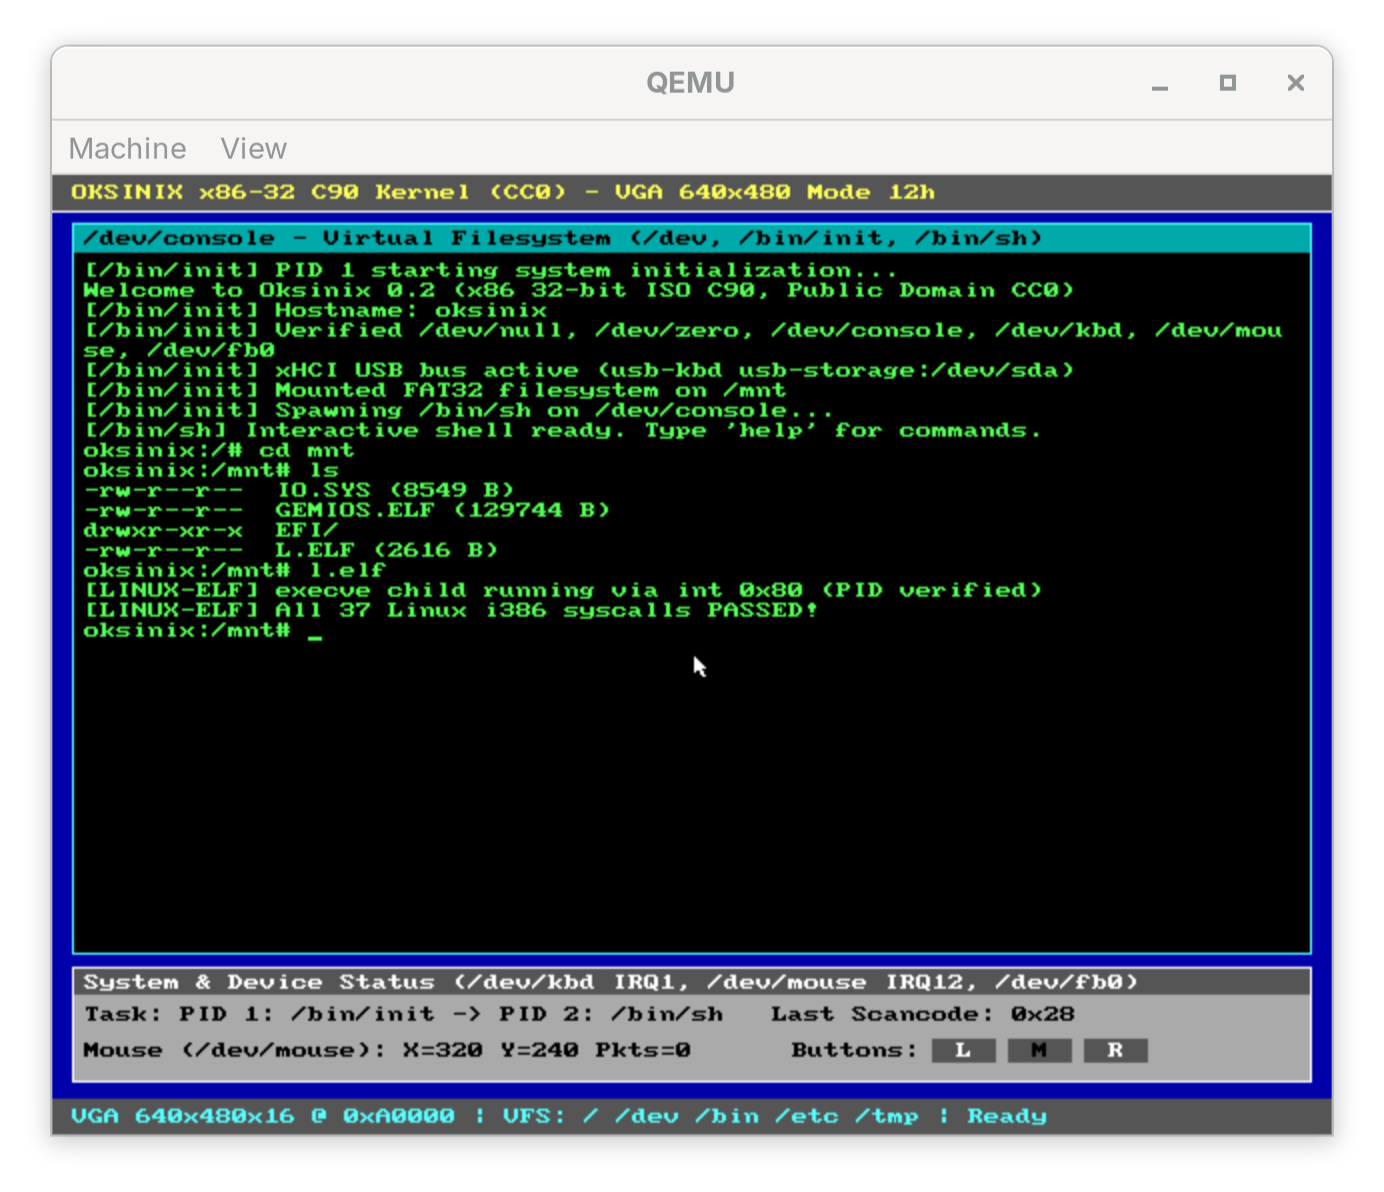
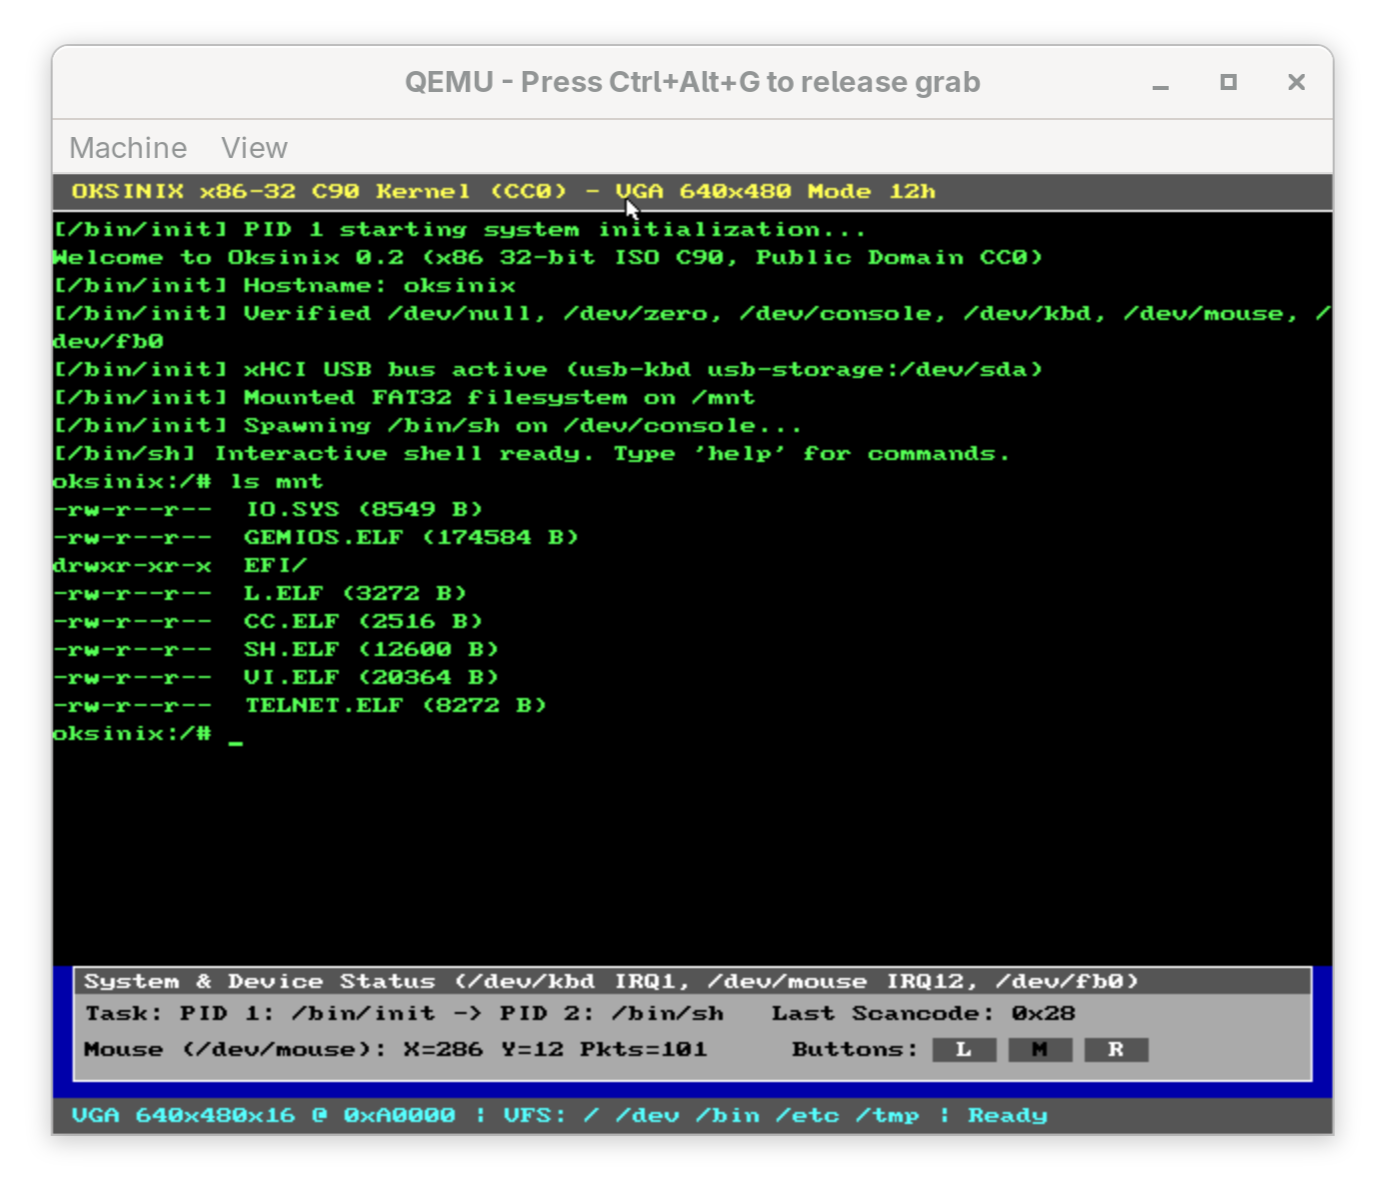
Oksinix

Changed region(s): [[0.0311, 0.0931, 0.9632, 0.9622], [0.2796, 0.031, 0.7146, 0.0931]]

diff --git a/oksinix/README.md b/oksinix/README.md
@@ -1,22 +1,24 @@
 <!-- SPDX-License-Identifier: CC0-1.0 -->
 # Oksinix
 
-A 32-bit x86 operating system kernel written in strict ISO C90 (`-std=c89 -pedantic -Wall -Wextra -Werror`), compiled with `clang` and linked with `ld.lld`. Dedicated to the public domain under **CC0 1.0 Universal**.
+A 32-bit x86 operating system kernel and Ring-3 userland written in strict ISO C90 (`-std=c89 -pedantic -Wall -Wextra -Werror`), compiled with `clang` and linked with `ld.lld`. Dedicated to the public domain under **CC0 1.0 Universal**.
 
 ## Features
 
-- **BIOS MBR Hybrid Boot Image (`oksinix.img`, `boot/mbr.S`) & Multiboot v1 ELF (`oksinix.elf`, `boot/boot.S`)**:
+- **BIOS MBR Hybrid Boot Image (`oksinix.img`, `boot/mbr.S`), Multiboot v1 ELF (`oksinix.elf`, `boot/boot.S`) & UEFI 32/64-bit Support**:
   - **Custom 512-byte BIOS MBR Bootloader (`boot/mbr.S`)**: Reserves bytes `0x03..0x59` (`.org 0x5A`) for USB-FDD BPB safety, collects the BIOS ACPI E820 memory map (`INT 15h`), enables A20, loads `oksinix.bin` in 16-sector LBA chunks, initializes VESA VBE 2.0 Linear Framebuffer (with VGA Mode 12h fallback), and enters 32-bit protected mode at `_start`
-  - **Multiboot v1 ELF (`oksinix.elf`)**: Direct boot via QEMU `-kernel` or Multiboot bootloaders with memory map and command-line parsing
-- **x86 32-bit Protected Mode Core, ACPI & Hardware Timer (`arch/x86/`, `drivers/acpi.c`, `drivers/pit.c`)**:
-  - Flat 32-bit GDT (`gdt.c`), 256-entry IDT (`idt.c`, `isr.S`), 8259 PIC (`pic.c`) with spurious IRQ7/IRQ15 filtering, and 1000 Hz 8254 PIT (`pit.c`) with hardware-latched `pit_udelay`/`pit_mdelay`
+  - **Multiboot v1 ELF (`oksinix.elf`)**: Direct boot via QEMU `-kernel`, Multiboot bootloaders, or external BIOS / UEFI 32-bit / UEFI 64-bit loaders (such as `gemiboot` with OVMF IA32/X64), including clean `CR0`/`CR4` paging handoff, GOP/LFB framebuffer, memory map, and command-line parsing
+- **x86 32-bit Protected Mode, Hardware Paging & xv6-like Task Protection (`arch/x86/`, `kernel/vm.c`, `kernel/sched.c`)**:
+  - **Ring-0 / Ring-3 Privilege Separation (`arch/x86/gdt.c`, `arch/x86/idt.c`, `arch/x86/isr.S`)**: Flat 32-bit GDT with user segments (`0x1B`/`0x23`), 32-bit TSS (`0x28`) with per-task `esp0` switching, 256-entry IDT (`int $0x80` DPL=3 syscall gate), 8259 PIC with spurious IRQ7/IRQ15 filtering, and Ring-3 fault isolation (`#PF`, `#GP`, `#UD`, `#DE` terminate only the faulting user task without crashing the kernel or parent shell)
+  - **Virtual Memory & Stack Overflow Protection (`kernel/vm.c`)**: x86 32-bit hardware paging (`CR4.PSE` 4 MiB kernel superpages + per-task 4 KiB user page directories), unmapped null page (`0x00000000`), unmapped 4 KiB hardware stack guard pages for kernel and user tasks, software stack-canary verification, and strict syscall user-pointer validation (`vm_user_range_ok`, `vm_user_str_ok`)
+  - **Preemptive Round-Robin Scheduler (`kernel/sched.c`, `drivers/pit.c`)**: 1000 Hz 8254 PIT (`pit_udelay`/`pit_mdelay`), up to 8 concurrent tasks with 10 ms time slices, per-task `CR3`/`TSS.esp0` switching, `ps`, `spawn`, `kill`, `schedtest`, and a 6-check hardware protection self-test (`prottest`)
   - **ACPI (`drivers/acpi.c`)**: RSDP/RSDT/FADT/DSDT `_S5` parsing, ACPI/E820 memory map reporting (`memmap`), and clean ACPI S5 poweroff (`shutdown` / `poweroff`)
-- **Linear Framebuffer / VGA Mode 12h & 80x25 Borderless Console (`drivers/vga.c`, `drivers/console.c`)**:
-  - Supports VBE 2.0 / PCI Bochs-QEMU Linear Framebuffer and direct VGA Mode 12h (`640x480x16` planar) with dirty-scanline double-buffered rendering, 8x8 bitmap font, borderless `80x25` console window, and software mouse cursor
+- **Linear Framebuffer / VGA Mode 12h & ANSI/VT100 80x25 Console (`drivers/vga.c`, `drivers/console.c`)**:
+  - Supports VBE 2.0 / UEFI GOP / PCI Bochs-QEMU Linear Framebuffer and direct VGA Mode 12h (`640x480x16` planar) with dirty-scanline double-buffered rendering, 8x8 bitmap font, borderless `80x25` console window, software mouse cursor, and an ANSI/VT100 CSI escape parser (alternate screen buffer `\x1b[?1049h`/`l`, cursor positioning, line/screen erase, reverse video)
 - **8042 PS/2 Controller, Keyboard & Mouse (`drivers/ps2.c`, `drivers/keyboard.c`, `drivers/mouse.c`)**:
   - Dual-port 8042 PS/2 init with self-test, IRQ1 keyboard driver supporting Swiss French QWERTZ (`fr_CH`) and US QWERTY (`us`) keymaps (`keymap`), and IRQ12 mouse driver
-- **PCI & xHCI USB 3.0 Stack (`drivers/pci.c`, `drivers/xhci.c`, `drivers/usbhub.c`, `drivers/usbhid.c`, `drivers/usbmsc.c`, `drivers/usbnet.c`)**:
-  - Full 256-bus PCI enumeration, Intel EHCI-to-xHCI port switchover, `USBLEGSUP` BIOS-to-OS handoff, `HCSPARAMS2` Scratchpad Buffer Array, 1024-byte composite configuration descriptor parsing (IAD `0x0B` + CDC Union `0x24/0x06`), and live hotplug detection
+- **PCI & Full USB 1.1 / 2.0 / 3.0 Host Stack (`drivers/pci.c`, `drivers/xhci.c`, `drivers/ehci.c`, `drivers/ohci.c`, `drivers/uhci.c`, `drivers/usbhub.c`, `drivers/usbhid.c`, `drivers/usbmsc.c`, `drivers/usbnet.c`)**:
+  - Full 256-bus PCI enumeration with drivers for **xHCI (USB 3.x)**, **EHCI (USB 2.0)**, **OHCI (USB 1.1)**, and **UHCI (USB 1.1)** host controllers, Intel EHCI-to-xHCI port switchover, `USBLEGSUP` BIOS-to-OS handoff, `HCSPARAMS2` Scratchpad Buffer Array, 1024-byte composite configuration descriptor parsing (IAD `0x0B` + CDC Union `0x24/0x06`), and live hotplug detection
   - **USB Hub (`drivers/usbhub.c`)**: Recursive downstream enumeration via 20-bit xHCI Route Strings
   - **USB HID Boot Keyboard & Mouse (`drivers/usbhid.c`)**: Feeds `/dev/kbd`, `/dev/mouse`, and `/dev/console`
   - **USB Mass Storage (`drivers/usbmsc.c`)**: BOT/SCSI driver supporting up to 4 hot-pluggable USB drives (`/dev/sda`..`/dev/sdd`) with automatic mount/umount to `/mnt` and `/media1`..`/media3`
@@ -25,24 +27,29 @@ A 32-bit x86 operating system kernel written in strict ISO C90 (`-std=c89 -pedan
   - **BSD Socket API**: `socket`, `bind`, `connect`, `send`, `recv`, `sendto`, `recvfrom`, `getsockname`, `getpeername`, `close` (`AF_INET`, `SOCK_STREAM`, `SOCK_DGRAM`, `SOCK_RAW`, `MSG_DONTWAIT`, `MSG_PEEK`) plus loopback (`127.x.x.x`)
   - **Network Hardening**: Overlap-safe IPv4 fragment reassembly (RFC 791/5722), anti-poisoning ARP cache (8 entries, 60 s TTL, LRU eviction), strict Ethernet/IPv4 destination filtering, RFC 6528 TCP ISN generation, RFC 5961 TCP RST/SYN/ACK/window validation, RFC 768 UDP checksums, RFC 2131 DHCPv4 client (`net dhcp`), and hardened RFC 1035 DNS A-record resolver
 - **Virtual Filesystem, `/dev` & FAT32 with VFAT LFN (`fs/vfs.c`, `fs/devfs.c`, `fs/fat32.c`)**:
-  - RAMFS root (`/`, `/dev`, `/bin`, `/etc`, `/mnt`, `/media1`..`/media3`, `/tmp`), `/dev` device nodes (`/dev/null`, `/dev/zero`, `/dev/console`, `/dev/tty0`, `/dev/ttyS0`, `/dev/kbd`, `/dev/mouse`, `/dev/fb0`, `/dev/eth0`, `/dev/sda`..`/dev/sdd`)
+  - RAMFS root (`/`, `/dev`, `/bin`, `/etc`, `/mnt`, `/media1`..`/media3`, `/tmp`) with zero-copy embedded read-only files (`vfs_register_rofile`), plus `/dev` device nodes (`/dev/null`, `/dev/zero`, `/dev/console`, `/dev/tty0`, `/dev/ttyS0`, `/dev/kbd`, `/dev/mouse`, `/dev/fb0`, `/dev/eth0`, `/dev/sda`..`/dev/sdd`)
   - **FAT32 (`fs/fat32.c`)**: Read/write/create/mkdir support with both 8.3 and VFAT Long File Name (LFN) entries across up to 4 mounted USB mass storage volumes
-- **Linux i386 Syscalls & ELF32 Static/Dynamic Loader (`kernel/syscall.c`)**:
-  - `int $0x80` Linux i386 syscall compatibility including process/memory/file syscalls (`fork`/`clone`, `execve`, `wait4`/`waitid`, `mmap2`, `brk`, `read`/`write`/`openat`/`close`) and BSD socket syscalls (`socket`, `bind`, `connect`, `sendto`, `recvfrom`, `getsockname`, `getpeername`, and multiplexed `socketcall`)
-  - Runs static PIE ELF32 binaries (`/mnt/LINUX.ELF`) and dynamically linked ELF32 binaries (`/mnt/DYN.ELF` with `PT_INTERP /lib/ld-linux.so.2`, `LIBTEST.SO`, and `libc.so.6`)
-- **Userland `/bin/init`, `/bin/sh`, `/bin/vi` & `/bin/cc` (`user/`)**:
-  - **`/bin/sh`**: Built-in commands `help`, `ls`, `cd`, `pwd`, `cat`, `cp`, `echo` (`>` redirection), `stat`, `mkdir`, `mount`, `umount`, `lsusb`, `net` (`net`, `net dhcp`, `net config <ip> <mask> <gw> [dns]`, `net ping [host]`), `telnet [host [port]]` (TCP client with RFC 854 IAC negotiation & interactive `telnet>` prompt), `memmap`/`acpi`, `keymap`, `ps`, `uname`, `uptime`, `clear`, `vi`, `cc`, `shutdown`/`poweroff`, and ELF binary execution
-  - **`/bin/vi`**: Full-screen modal text editor with Normal mode (`h`, `j`, `k`, `l`, `0`, `$`, `g`, `G`, `x`, `D`, `dd`, `yy`, `p`, `J`), Visual mode (`v`, `y`), Insert mode (`i`, `a`, `A`, `o`, `O`), and Ex commands (`:w`, `:w <file>`, `:q`, `:q!`, `:wq`, `:x`)
-  - **`/bin/cc`**: Built-in minimal C compiler (`user/cc.c`)
+- **Linux i386 Syscalls & Ring-3 ELF32 Static/Dynamic Loader (`kernel/syscall.c`, `kernel/sysctl.c`)**:
+  - `int $0x80` Linux i386 syscall ABI running user processes in Ring 3 with 4-level nested `fork`/`clone` + `execve` + `wait4`/`waitid` snapshots, memory/file/system syscalls (`mmap2`, `brk`, `read`/`write`/`open`/`openat`/`close`, `chdir`, `getcwd`, `mkdir`, `mount`, `umount2`, `kill`, `clock_gettime`, `reboot`, `OKSINIX_SYS_ctl`), and BSD socket syscalls (`socket`, `bind`, `connect`, `sendto`, `recvfrom`, `getsockname`, `getpeername`, and multiplexed `socketcall`)
+  - Runs static-PIE ELF32 executables and dynamically linked ELF32 executables (`PT_INTERP /lib/ld-linux.so.2`) backed by real Ring-3 PIC shared libraries (`LIBTEST.SO`, `libc.so.6`)
+- **Standalone Ring-3 Userland (`user/`)**:
+  - **`/bin/init` (`user/init.c`)**: Minimal kernel init that mounts RAMFS/devfs/FAT32, registers embedded `/bin/sh`, and launches `/bin/sh` in Ring 3
+  - **`/bin/sh` (`user/sh.c` -> `user/sh.elf`, embedded via `user/sh_embed.S` & `/mnt/SH.ELF`)**: Standalone Ring-3 static-PIE shell (`int $0x80` only) supporting `help`, `ls`, `cd`, `pwd`, `cat`, `cp`, `echo` (`>` redirection), `stat`, `mkdir`, `mount`, `umount`, `lsusb`, `net` (`net`, `net dhcp`, `net config <ip> <mask> <gw> [dns]`, `net ping [host]`), `memmap`/`acpi`, `keymap`, `ps`, `kill`, `spawn`, `schedtest`, `prottest`, `uname`, `uptime`, `clear`, `shutdown`/`poweroff`, and spawning external Ring-3 executables (`vi`, `cc`, `telnet`, `/mnt/LINUX.ELF`, `/mnt/DYN.ELF`, etc.) via `fork` + `execve` + `waitpid`
+  - **`/mnt/VI.ELF` (`user/vi.c`)**: Standalone Ring-3 full-screen modal text editor using ANSI/VT100 escapes with Normal mode (`h`, `j`, `k`, `l`, `0`, `$`, `g`, `G`, `x`, `D`, `dd`, `yy`, `p`, `J`), Visual mode (`v`, `y`), Insert mode (`i`, `a`, `A`, `o`, `O`), and Ex commands (`:w`, `:w <file>`, `:q`, `:q!`, `:wq`, `:x`)
+  - **`/mnt/CC.ELF` (`user/cc.c`)**: Standalone Ring-3 minimal C compiler
+  - **`/mnt/TELNET.ELF` (`user/telnet.c`)**: Standalone Ring-3 TCP client with RFC 854 IAC negotiation, UDP DNS A-record resolution, and interactive `telnet>` REPL over BSD socket syscalls
+  - **`/mnt/LINUX.ELF` (`user/linux_hello.S`) & `/mnt/DYN.ELF` (`user/linux_dyn.c`, `user/libtest.c`, `user/libc_stub.c`)**: Static-PIE and dynamically linked Ring-3 Linux i386 test programs
 
 ## Building & Testing
 
 ```sh
-# Build kernel ELF (oksinix.elf), hybrid BIOS MBR + FAT32 disk image (oksinix.img), and USB disk image (usb_disk.img)
+# Build kernel ELF (oksinix.elf), standalone Ring-3 userland ELFs (sh, vi, cc, telnet, libc.so.6, ...),
+# hybrid BIOS MBR + FAT32 disk image (oksinix.img), and USB disk image (usb_disk.img)
 make
 
-# Run automated QEMU integration test suite (boot, ACPI, VGA, xHCI hub/kbd/mouse/4x storage hotplug,
-# FAT32 8.3 & LFN, vi, Linux i386 static/dynamic ELFs + socket syscalls, RNDIS DHCP/ARP/ICMP/TCP telnet, ACPI shutdown)
+# Run automated QEMU integration test suite (Ring-3 /bin/sh, ACPI, VGA, xHCI hub/kbd/mouse/4x storage hotplug,
+# FAT32 8.3 & LFN, Ring-3 vi/cc/telnet, static/dynamic ELFs + socket syscalls, prottest, RNDIS DHCP/ARP/ICMP,
+# ACPI S5 shutdown, and Multiboot v1 boot)
 make test
 
 # Run interactively in QEMU with xHCI USB hub, kbd, mouse, storage, and USB RNDIS networking
